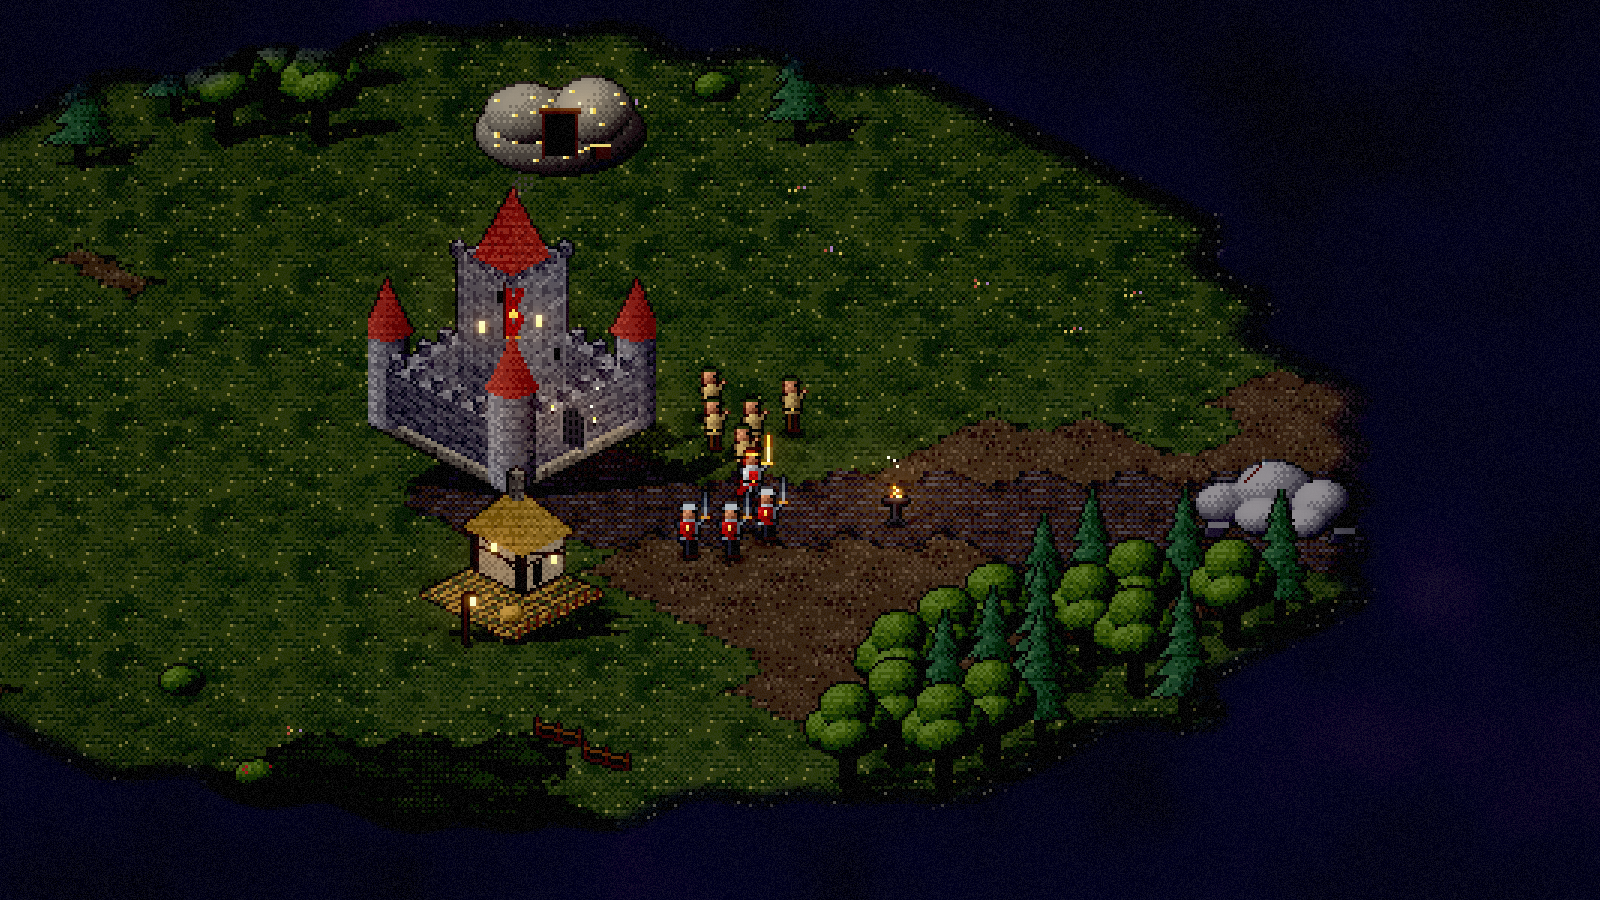
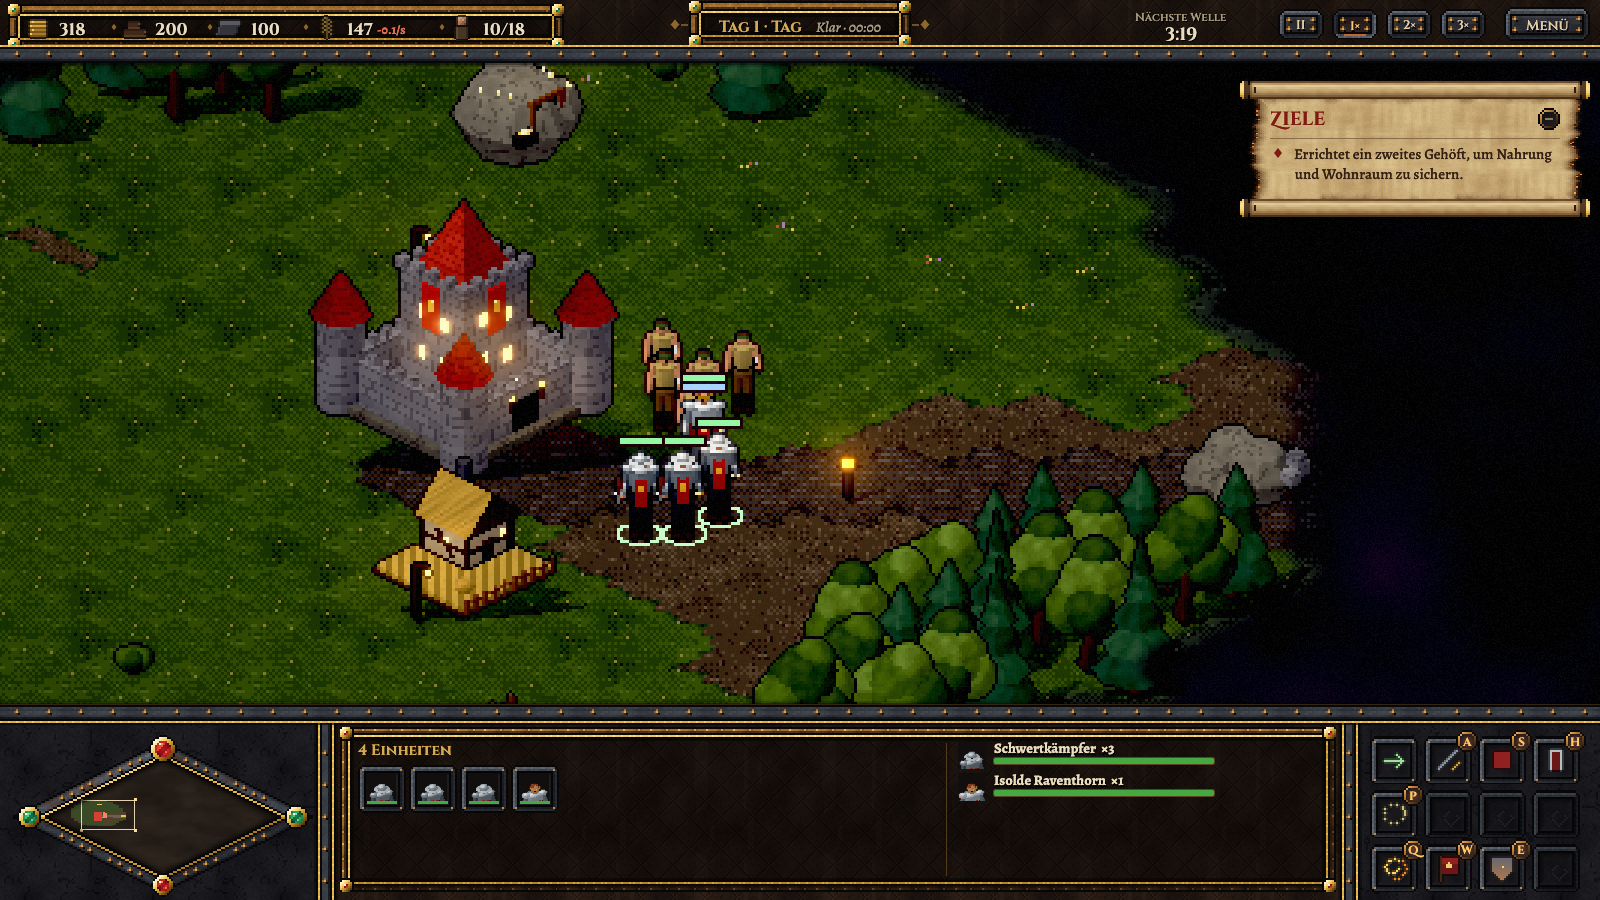
UI-Redesign übernommen, README und Screenshots aktualisiert
Claude-Session: https://claude.ai/code/session_01Dd6Nov4z5CXiQRrhZuK84T

diff --git a/README.md b/README.md
@@ -15,7 +15,7 @@ A18 Pro mit 5-Kern-GPU und 8 GB Unified Memory. Windows und Linux sind architekt
 | Simulation | Deterministisch (20 Hz), A*-Wegfindung mit Glättung und Budget, Formationen, Separation, Kampf mit Rüstungs-/Schadenstypen, Moral & Flucht, Projektile, Türme, Helden mit Stufen und Fähigkeiten, Wirtschaft (Sammeln, Bauen, Ausbilden, Nahrung als Unterhalt, Hungersnot), Tag/Nacht, Wetter, Gegner-KI (Wellen, Wachen, Boss), datengetriebene Missionen, Chronik |
 | Inhalte | 4 eigene + 2 gegnerische Gebäude, 5 Einheitentypen, Heldin Isolde Raventhorn (3 Fähigkeiten), 3 Gegnertypen + Boss „Der Fahle Vogt“, Mission „Die letzte Siedlung“ |
 | Modi | Kampagne, Gefecht, Überleben, Sandbox |
-| UI | Hauptmenü mit lebendem Hintergrund, Neues Spiel, Laden, Einstellungen, Mods, Credits; HUD mit Ressourcen, Minimap, Auswahl, Befehlskarte, Zielen, Nachrichten, Pausenmenü, Chronik, Sieg/Niederlage |
+| UI | Dark-Fantasy-Oberfläche aus prozedural erzeugter Pixel-Art (geschmiedete Eisenrahmen mit Goldfiligran und Edelsteinen, Leder, Stein, Pergament), Schriften Cinzel/Cinzel Decorative/Alegreya (OFL); Hauptmenü mit Glut-Titel und lebendem Hintergrund, Neues Spiel, Laden, Einstellungen, Mods, Credits; HUD mit Ressourcenplakette, Rauten-Minimap, Porträt im Prunkrahmen, Befehlskarte mit Abklingzeiten, Zielrolle, Nachrichten, Pausenmenü, Chronik, Sieg/Niederlage |
 | Speichern | Versioniert, CRC32, atomar, Backup, rotierende Autosaves |
 | Audio | Manifest, Asset-Scanner, automatische Zuordnung, Validierung, Duplikat-/Fehlbericht, Event-Registry, Musik-Intensitäten mit Crossfade, Ambience-Schichten, Dialogsequenzen mit Ducking |
 | Modding | Datenmods (Einheiten, Gebäude, Fähigkeiten, Missionen) mit Beispiel-Mod |
